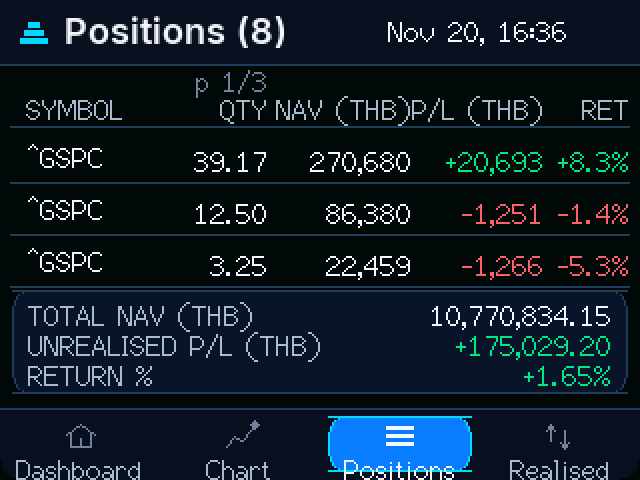
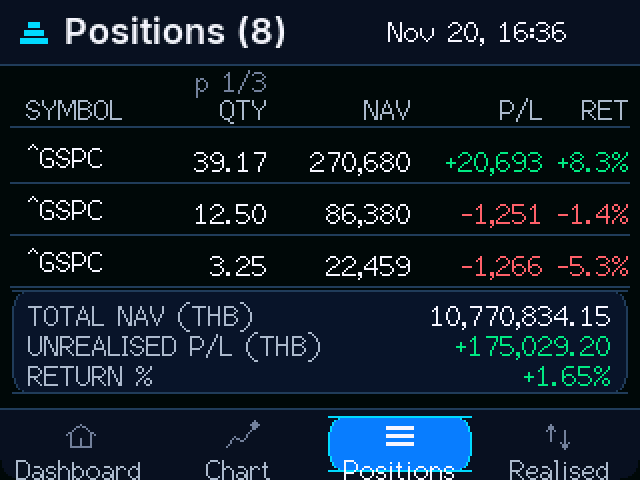
fw 1.3.5: Positions table headers drop the (THB) suffix
QTY / NAV / P/L / RET - the currency is already spelled out by the summary
card underneath (TOTAL NAV (THB), UNREALISED P/L (THB)), so repeating it in
every column header was pure noise, and the shorter headers give the numeric
columns more breathing room. Page-entry full-screen wipe (1.3.4) already
covers the Positions page; docs images regenerated.

diff --git a/src/DisplayUI.cpp b/src/DisplayUI.cpp
@@ -576,7 +576,7 @@ void drawPosStatics() {
   useFont(F2);
   tft.setTextColor(Cfg::SECTXT, Cfg::BG);
   tft.drawString("SYMBOL", Cfg::TBL_X + 8, Cfg::TBL_HY + 8, 2);
-  const char* lbl[3] = {"QTY", "NAV (THB)", "P/L (THB)"};
+  const char* lbl[3] = {"QTY", "NAV", "P/L"};   // the currency lives in the summary card, not every column
   const int rx[3] = {Cfg::COL_QTY_R, Cfg::COL_NAV_R, Cfg::COL_PL_R};
   for (int i = 0; i < 3; i++)
     tft.drawString(lbl[i], rx[i] - (int)tft.textWidth(lbl[i]),

diff --git a/src/core/AppTypes.h b/src/core/AppTypes.h
@@ -5,7 +5,7 @@
 #include <stddef.h>
 #include <math.h>
 
-#define FW_VERSION "1.3.4"
+#define FW_VERSION "1.3.5"
 #define SP500_SYMBOL "^GSPC"
 
 static const uint8_t  MAX_POSITIONS = 12;   // open lots; trimmed from 24 to fit the sale ledger in RAM
